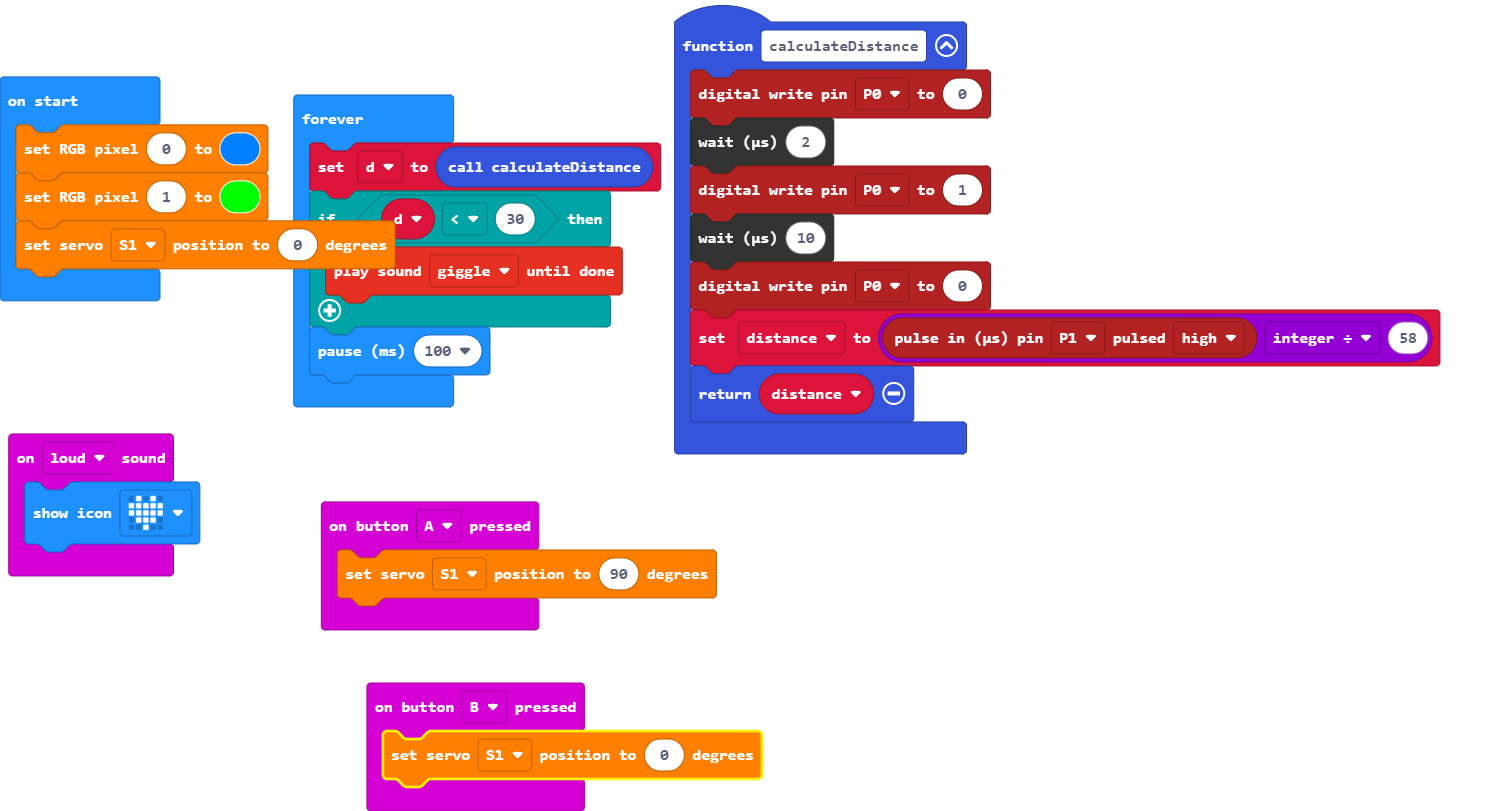
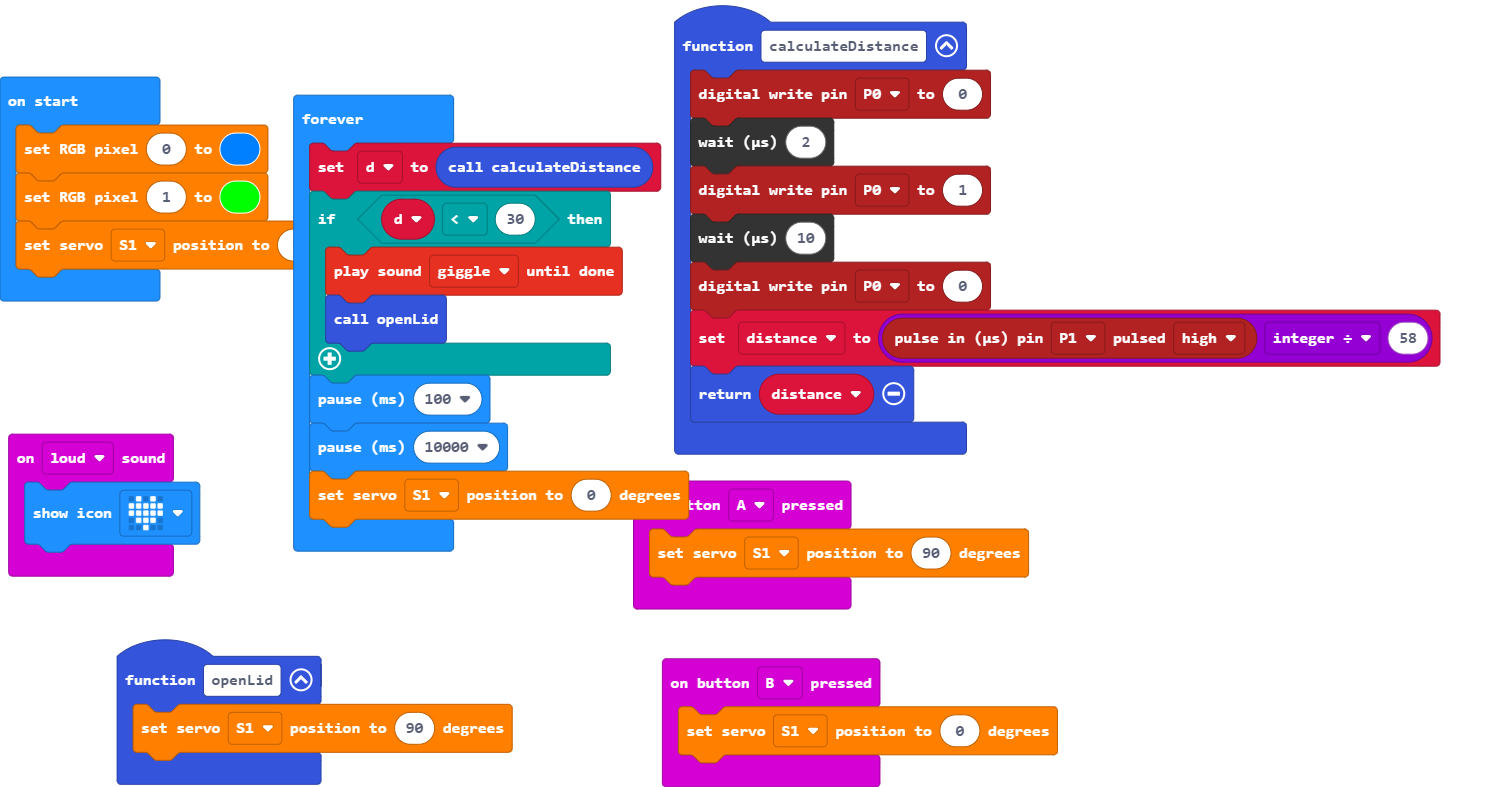
Update main.blocks, main.ts

Changed region(s): [[0.0, 0.0, 0.9866, 0.7929], [0.0617, 0.7929, 0.7091, 1.0], [0.0, 0.5184, 0.1542, 0.7319]]

diff --git a/main.ts b/main.ts
@@ -4,6 +4,9 @@ input.onButtonPressed(Button.A, function () {
 input.onSound(DetectedSound.Loud, function () {
     basic.showIcon(IconNames.Heart)
 })
+function openLid () {
+    rekabit.setServoPosition(ServoChannel.S1, 90)
+}
 function calculateDistance () {
     pins.digitalWritePin(DigitalPin.P0, 0)
     control.waitMicros(2)
@@ -25,6 +28,9 @@ basic.forever(function () {
     d = calculateDistance()
     if (d < 30) {
         soundExpression.giggle.playUntilDone()
+        openLid()
     }
     basic.pause(100)
+    basic.pause(10000)
+    rekabit.setServoPosition(ServoChannel.S1, 0)
 })
